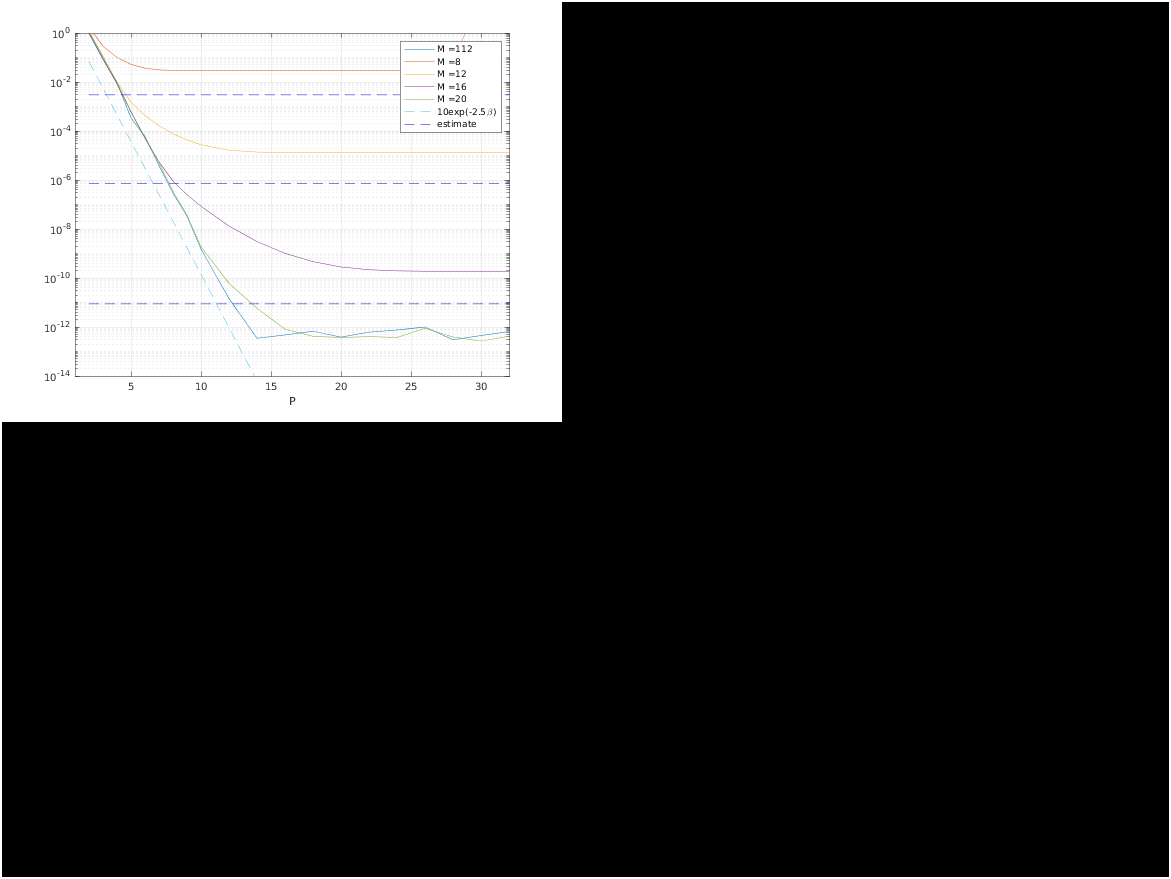
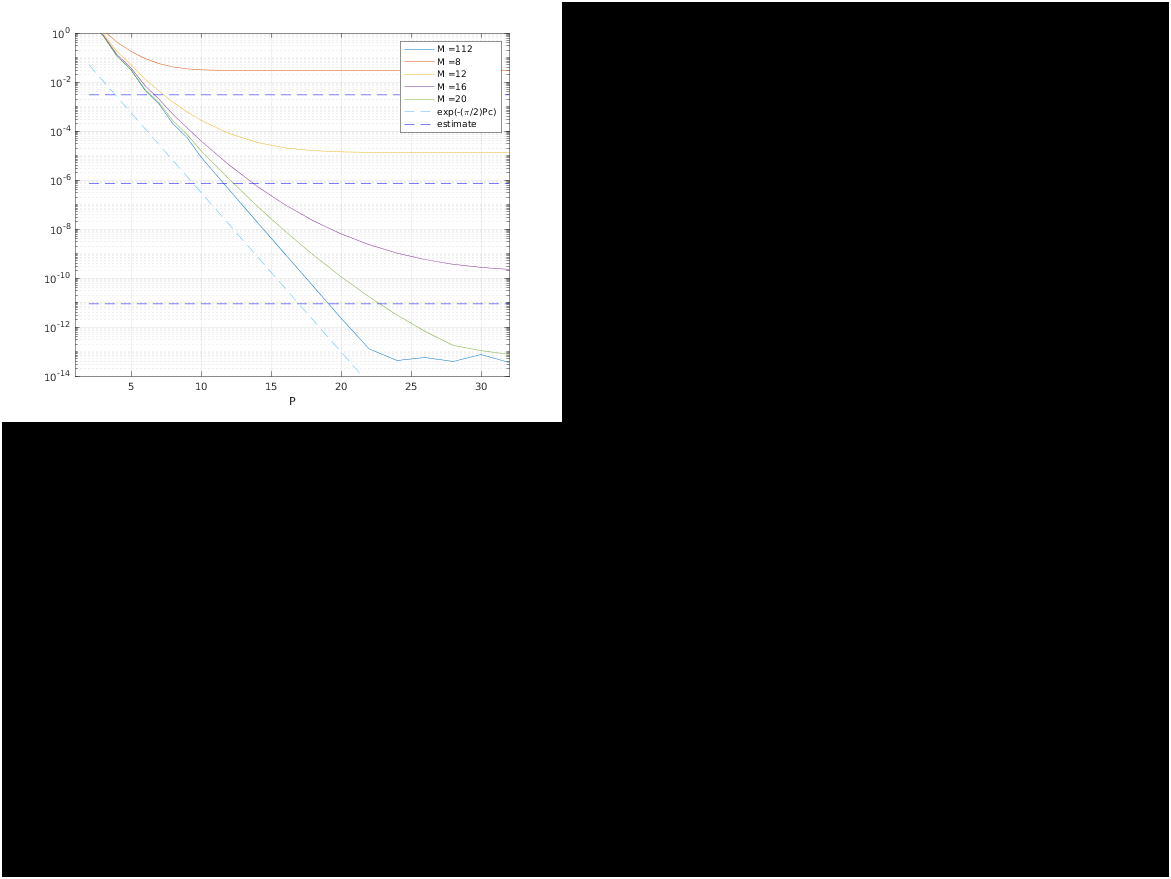
imgs

diff --git a/SE_Stokes_run/SE3P_Stokes/P_error.m b/SE_Stokes_run/SE3P_Stokes/P_error.m
@@ -21,7 +21,7 @@ opt.xi = 5;
 opt.betaP = 2.5;
 opt.c = sqrt(0.91);
 %opt.window = 'kaiser_exact';
-opt.window = 'kaiser_exact';
+opt.window = 'gaussian';
 opt.polynomial_degree = 9;
 % charge-neutral system
 [x, f] = SE_charged_system(N,box,'vector');
